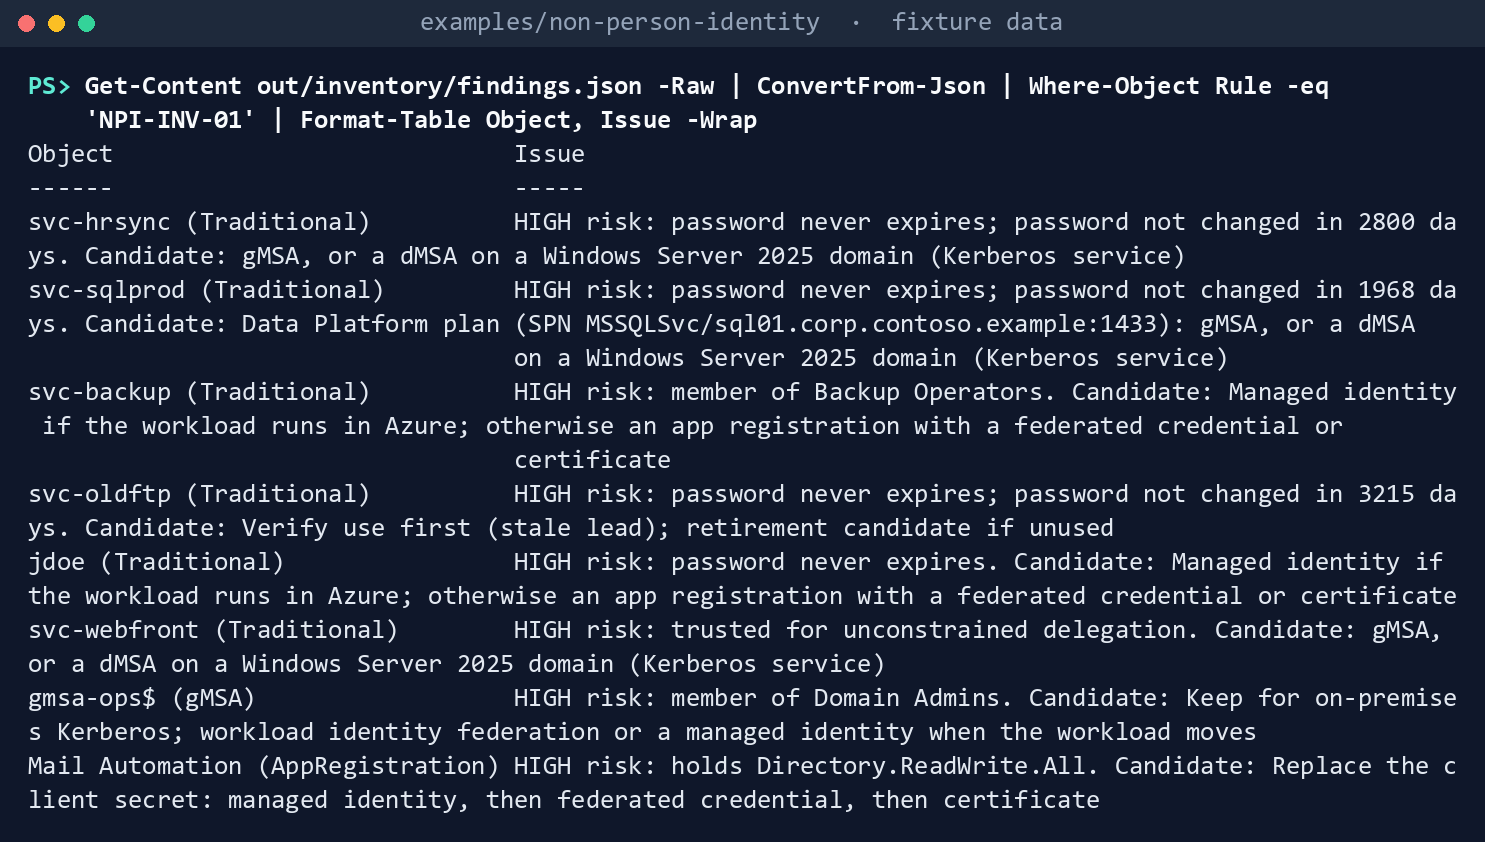
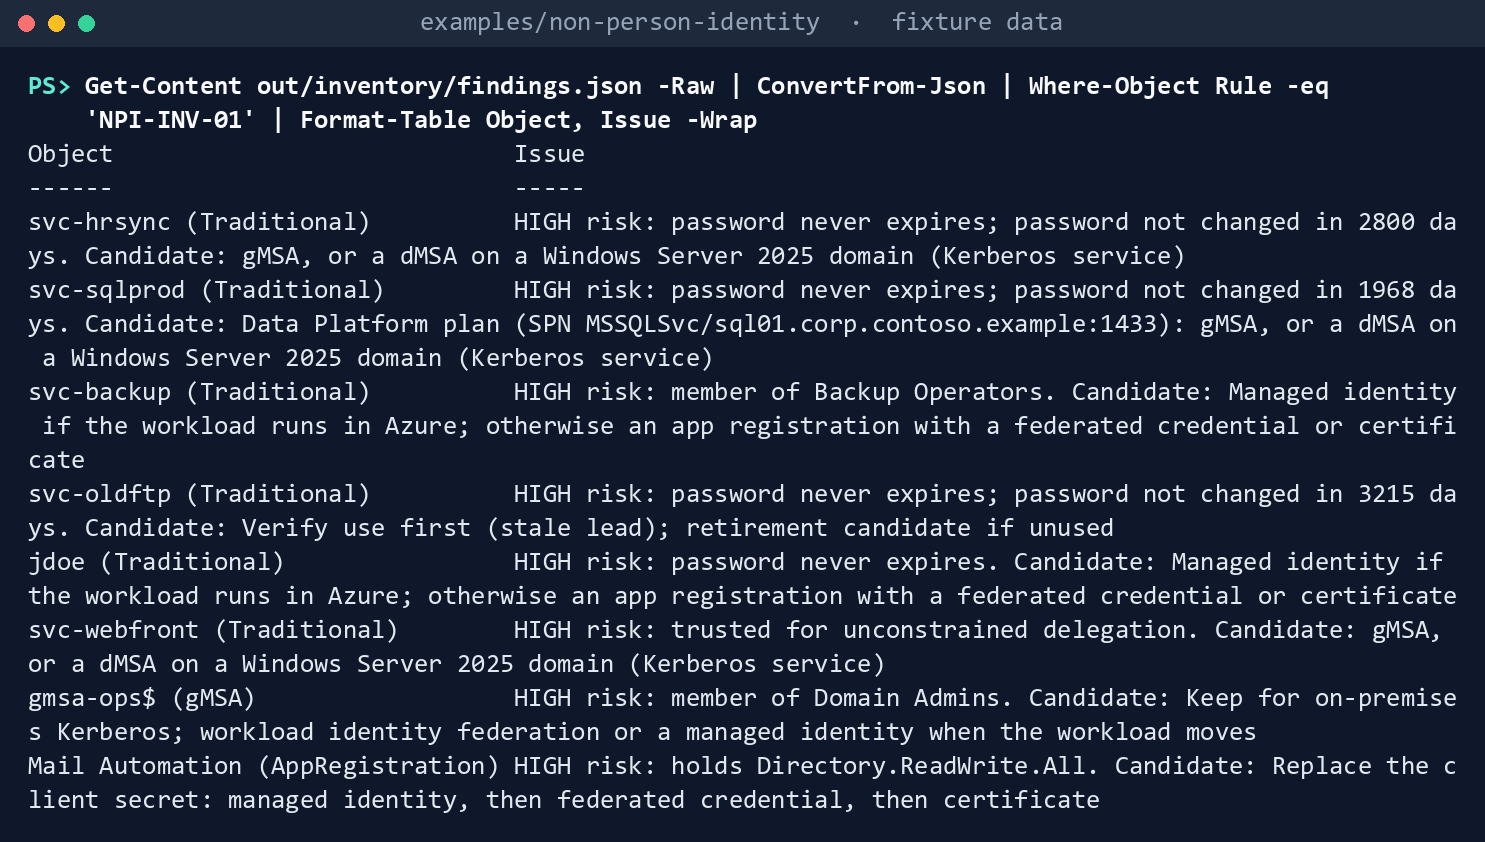
Lab captures: PowerShell tables at full width, so a column wraps the same on every machine
The terminal images wrap long lines at 100 columns themselves.

diff --git a/scripts/kit_captures.py b/scripts/kit_captures.py
@@ -194,7 +194,9 @@ foreach ($__b in (Get-Content -Raw -LiteralPath $args[0] | ConvertFrom-Json)) {
     "$([char]0x1e)SRC " + ($__st.Extent.Text -replace "`r?`n", [string][char]0x1f)
     $__shown++
     $global:LASTEXITCODE = 0
-    try { . ([scriptblock]::Create($__st.Extent.Text)) *>&1 | Out-String -Width 200 -Stream }
+    # Tables at full width: where PowerShell would wrap a column differs between machines, and the
+    # terminal images wrap long lines themselves.
+    try { . ([scriptblock]::Create($__st.Extent.Text)) *>&1 | Out-String -Width 1000 -Stream }
     # An error is one line, "Name: message", as a wide terminal shows it; otherwise PowerShell
     # wraps it to the console width, which differs between machines.
     catch {
